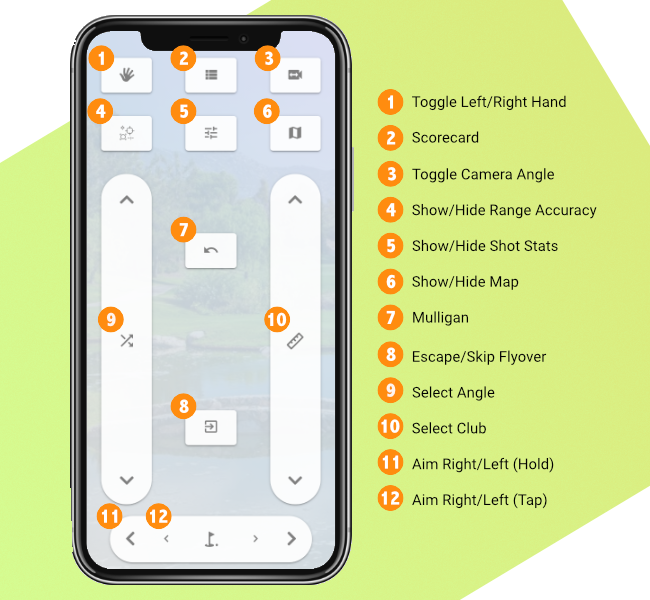
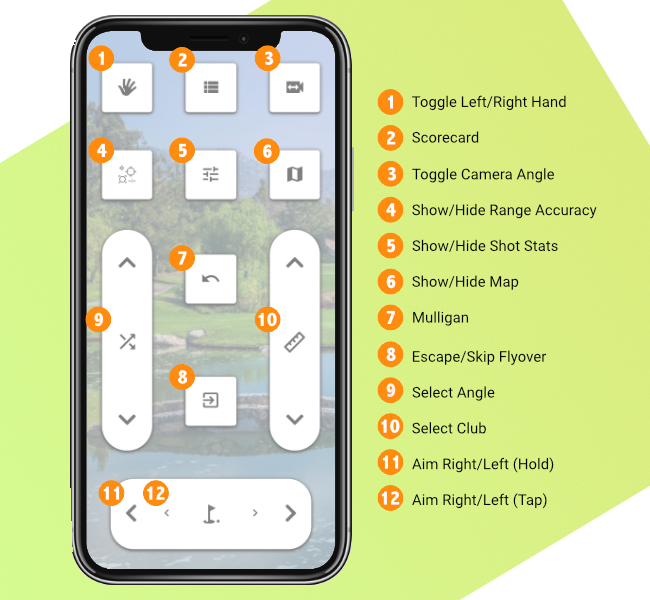
Updated styling and image previews

Changed region(s): [[0.1231, 0.06, 0.5231, 0.96]]

diff --git a/src/components/Controller.css b/src/components/Controller.css
@@ -28,9 +28,22 @@
 }
 
 .second-row,
-.right-left-row,
 .first-row {
+  height: 16vh;
+}
+
+.right-left-row {
   height: 20vh;
+}
+
+@media screen and (max-height: 800px) {
+  .second-row,
+  .first-row {
+    height: 14vh;
+  }
+  .right-left-row {
+    height: 18vh;
+  }
 }
 
 .shot-selection-row {
@@ -68,7 +81,7 @@ svg {
     width: 2.5em;
   }
 }
-@media screen and (max-height: 730px) {
+@media screen and (max-height: 780px) {
   svg {
     height: 2em;
     width: 2em;
@@ -101,14 +114,14 @@ svg {
 }
 .horizontal-arrow-container {
   flex-direction: row;
-  margin: 4vh 10% 20px;
+  margin: 3vh 10% 3vh;
   border-radius: 40px;
 }
 .vertical-arrow-container,
 .horizontal-arrow-container {
-  box-shadow: 0 2px 2px 0 grey, 0 3px 1px -2px grey, 0 1px 5px 0 grey;
+  box-shadow: 0 2px 5px 0 grey, 0 3px 5px -2px grey, 0 1px 7px 0 grey;
   z-index: 2;
-  background: rgb(255, 255, 255, 0.9);
+  background: rgb(255, 255, 255, 1);
   display: flex;
 }
 .vertical-arrow-container > *,

diff --git a/src/components/KeyboardButton/KeyboardButton.module.css b/src/components/KeyboardButton/KeyboardButton.module.css
@@ -10,7 +10,7 @@
   display: inline-block;
   font-size: 14px;
   outline: 0;
-  box-shadow: 0 2px 2px 0 grey, 0 3px 1px -2px grey, 0 1px 5px 0 grey;
+  box-shadow: 0 2px 5px 0 grey, 0 3px 5px -2px grey, 0 1px 7px 0 grey;
   position: relative;
   cursor: pointer;
   overflow: hidden;

diff --git a/public/style.css b/public/style.css
@@ -10,7 +10,7 @@
   height: 100%;
   width: 100%;
   background: linear-gradient(216deg, rgb(230, 229, 248) 0%, rgb(214, 228, 240) 35%, rgb(238, 238, 238) 100%);
-  opacity: 0.9;
+  opacity: 0.7;
   z-index: 1;
 }
 body {
